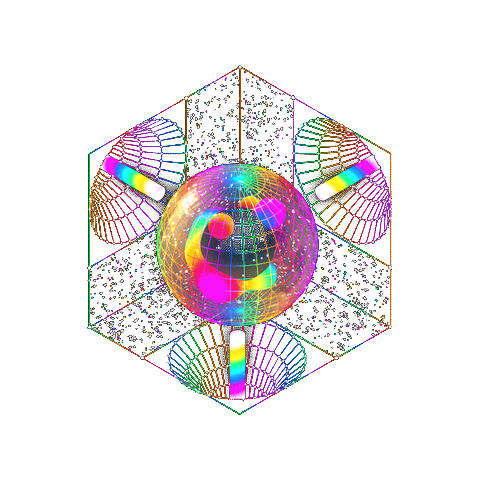
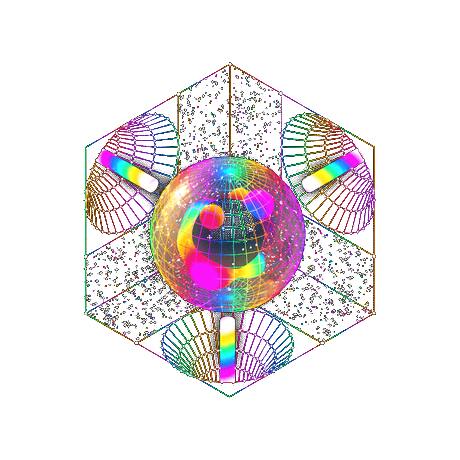
feat(seraphim): trio assets — spiral, tunnel-windows, hex-core
Use Taylor's three refs only (black keyed on GIFs); tunnel+hex share seal YPR/size; quiet procedural bolts.

Changed region(s): [[0.1826, 0.1217, 0.8217, 0.8826], [0.3652, 0.5478, 0.3957, 0.5783]]

diff --git a/docs/index.html b/docs/index.html
@@ -1299,6 +1299,35 @@ body.clientBgFirst #uploadBox:not([style*="top"]) {
   }
 }
 
+/* clientTrioAssets — spiral + tunnel-windows + hex-core (black keyed) */
+#bgField .tunnelWindowsKeyed{
+  position:absolute; inset:auto; z-index:2;
+  left:var(--seal-x, 50%);
+  top:var(--seal-y, 40%);
+  width:var(--seal-tunnel, min(120vmin, 900px));
+  height:var(--seal-tunnel, min(120vmin, 900px));
+  transform:translate(-50%, -50%) rotateY(var(--seal-yaw, 0deg)) rotateX(var(--seal-pitch, 0deg)) rotateZ(var(--seal-roll, 0deg));
+  transform-style:preserve-3d;
+  will-change:transform;
+  display:block !important;
+  opacity:0.88;
+  pointer-events:none;
+  mix-blend-mode:screen;
+  filter:saturate(1.15) contrast(1.08) brightness(1.05);
+  backface-visibility:hidden;
+}
+#bgField .tunnelWindowsKeyed img{
+  display:block; width:100%; height:100%;
+  object-fit:contain; object-position:center;
+}
+#bgField .tunnelWindowsKeyed img.still{ display:none; }
+@media (prefers-reduced-motion:reduce){
+  #bgField .tunnelWindowsKeyed img.anim{ display:none !important; }
+  #bgField .tunnelWindowsKeyed img.still{ display:block !important; }
+  #bgField .tunnelWindowsKeyed{ transform:translate(-50%, -50%) !important; }
+}
+
+
 
 /* mid-band window defaults (JS also places) */
 #uploadBox{
@@ -1494,6 +1523,11 @@ button.on{ border-color:rgba(94,234,212,.85)!important; color:var(--admit)!impor
       <img src="media/spiral-field.jpg" alt="" width="500" height="1000" decoding="async" fetchpriority="high">
     </picture>
   </div>
+  <div class="tunnelWindowsKeyed" aria-hidden="true">
+    <img class="anim" src="media/tunnel-windows-keyed.webp" alt="" width="420" height="420" decoding="async">
+    <img class="still" src="media/tunnel-windows-keyed.png" alt="" width="420" height="420" decoding="async">
+  </div>
+
   <div class="hexCoreKeyed" aria-hidden="true">
     <img class="anim" src="media/hex-core-keyed.webp" alt="" width="480" height="480" decoding="async">
     <img class="still" src="media/hex-core-keyed.png" alt="" width="480" height="480" decoding="async">
@@ -4800,7 +4834,7 @@ function drawHexCoreWires(cx,cy,s,t){
   ctx.restore();
 }
 
-function drawWindowLightnings(cx,cy,s,t){
+function drawWindowLightnings(cx,cy,s,t){ /* clientTrioAssets: quiet bolts — tunnel gif owns lightning */ return;
   /* clientWinLightning — jagged bolts: floating windows ↔ nearest dodeca verts */
   const pv=DODECA._projVerts;
   if(!pv||pv.length<4) return;

diff --git a/standalone.html b/standalone.html
@@ -1299,6 +1299,35 @@ body.clientBgFirst #uploadBox:not([style*="top"]) {
   }
 }
 
+/* clientTrioAssets — spiral + tunnel-windows + hex-core (black keyed) */
+#bgField .tunnelWindowsKeyed{
+  position:absolute; inset:auto; z-index:2;
+  left:var(--seal-x, 50%);
+  top:var(--seal-y, 40%);
+  width:var(--seal-tunnel, min(120vmin, 900px));
+  height:var(--seal-tunnel, min(120vmin, 900px));
+  transform:translate(-50%, -50%) rotateY(var(--seal-yaw, 0deg)) rotateX(var(--seal-pitch, 0deg)) rotateZ(var(--seal-roll, 0deg));
+  transform-style:preserve-3d;
+  will-change:transform;
+  display:block !important;
+  opacity:0.88;
+  pointer-events:none;
+  mix-blend-mode:screen;
+  filter:saturate(1.15) contrast(1.08) brightness(1.05);
+  backface-visibility:hidden;
+}
+#bgField .tunnelWindowsKeyed img{
+  display:block; width:100%; height:100%;
+  object-fit:contain; object-position:center;
+}
+#bgField .tunnelWindowsKeyed img.still{ display:none; }
+@media (prefers-reduced-motion:reduce){
+  #bgField .tunnelWindowsKeyed img.anim{ display:none !important; }
+  #bgField .tunnelWindowsKeyed img.still{ display:block !important; }
+  #bgField .tunnelWindowsKeyed{ transform:translate(-50%, -50%) !important; }
+}
+
+
 
 /* mid-band window defaults (JS also places) */
 #uploadBox{
@@ -1494,6 +1523,11 @@ button.on{ border-color:rgba(94,234,212,.85)!important; color:var(--admit)!impor
       <img src="media/spiral-field.jpg" alt="" width="500" height="1000" decoding="async" fetchpriority="high">
     </picture>
   </div>
+  <div class="tunnelWindowsKeyed" aria-hidden="true">
+    <img class="anim" src="media/tunnel-windows-keyed.webp" alt="" width="420" height="420" decoding="async">
+    <img class="still" src="media/tunnel-windows-keyed.png" alt="" width="420" height="420" decoding="async">
+  </div>
+
   <div class="hexCoreKeyed" aria-hidden="true">
     <img class="anim" src="media/hex-core-keyed.webp" alt="" width="480" height="480" decoding="async">
     <img class="still" src="media/hex-core-keyed.png" alt="" width="480" height="480" decoding="async">
@@ -4800,7 +4834,7 @@ function drawHexCoreWires(cx,cy,s,t){
   ctx.restore();
 }
 
-function drawWindowLightnings(cx,cy,s,t){
+function drawWindowLightnings(cx,cy,s,t){ /* clientTrioAssets: quiet bolts — tunnel gif owns lightning */ return;
   /* clientWinLightning — jagged bolts: floating windows ↔ nearest dodeca verts */
   const pv=DODECA._projVerts;
   if(!pv||pv.length<4) return;
